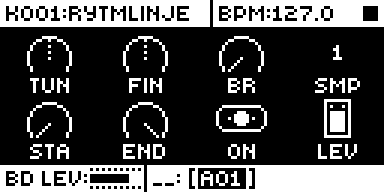
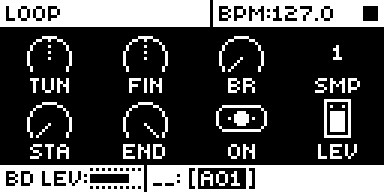
Pipo Loop: PP13 captures of every feature; evidence from the author's unit
New rytm-emu captures from PP13: LOP OFF/ON/PIPO, a PIPO lock and scene,
zero snap on the sound and on a held trig's lock, and the S/E labels
(sharing a crossing, reversed, playing). Evidence is author-hardware (test
builds PC03, PD01-PD05 as reported); README and limitations updated and the
not-yet-tested-on-a-unit list in TESTING.md.

Changed region(s): [[0.0, 0.0312, 0.5, 0.125]]

diff --git a/sdk/analog-rytm-mkii/modules/_submissions/pipo-loop/README.md b/sdk/analog-rytm-mkii/modules/_submissions/pipo-loop/README.md
@@ -38,6 +38,10 @@ Use a build containing Pipo Loop, select a track whose sound plays a sample, and
 
 ![LOP locked to PIPO in scene 1](media/scene-pipo.png)
 
+![STA and END snapped to zero crossings, labelled S and E](media/snap-markers.png) ![A held trig's STA lock snapped to a crossing](media/snap-lock.png)
+
+![STA and END sharing a crossing](media/markers-shared.png) ![END before STA](media/markers-reversed.png) ![Playing, with the playhead](media/markers-playing.png)
+
 ### Changes to stock flows
 
 - **LOP has a third value.** What changes: turning LOP clockwise past ON now reaches PIPO; locks and scenes can hold PIPO. Why: a musician looks for loop behaviour on LOP, and a third value needs no new page, key gesture or menu row (a FUNC gesture on the SAMPLE page was considered, but FUNC + STA, END and LOP are stock's coarse steps and FUNC + TUN and FIN belong to Loop Sync). What you see: the value text reads PIPO, and LOP's switch has three positions like BD CLASSIC's WAV, so ON now shows the knob in the middle (stock: on the right). It applies only in a build with this mod; leave LOP on OFF or ON for stock behaviour. Checked beside it: OFF and ON play exactly as stock, LOP's p-locks and scene locks, kit save through power-off, MIDI CC 30.
@@ -59,16 +63,16 @@ Use a build containing Pipo Loop, select a track whose sound plays a sample, and
 - A PIPO turn on a crossing can still give a soft knock on a pure tone: the waveform's slope reverses at the turn, which no choice of frame avoids. A forward loop (LOP ON) between two crossings of one direction joins smoothly.
 - The STA and END lines on the SMPL WAVEFORM view are stock's drawing: one column covers many frames (about 225 for a 0.6 s sample), and stock spaces the lines over 123 columns but the waveform over 124, so a line can sit one column left of the crossing it is on, more often towards the right of the screen. The frame stock plays from is the one the snap set.
 - On stock OS, PIPO plays as ON. Sounds and kits keep the value, so loading them again with the mod brings PIPO back.
-- On a unit only as test builds so far (PC03 and the diagnostic PD01, both reported in [TESTING.md](TESTING.md)).
+- Run on a unit by the author as test builds (PC03 and the diagnostics PD01 to PD05, reported in [TESTING.md](TESTING.md)); what is not yet tested on a unit is listed there.
 
 ## Tests and measurements
 
-rytm-emu (c5732f0) on OS 1.74, build PP07, with a generated ramp sample on BD: the value steps OFF/ON/PIPO and reads PIPO; ON plays stock's forward loop and PIPO a click-free triangle from TUN -24 to +24; switching ON to PIPO mid-note; FUNC + STA and END stepping crossing by crossing on a test sine with silence and DC in it; p-locks and scene locks of PIPO; two voices at once; retrig; persistence through power-off; and stock 1.74 loading the saved PIPO state as a normal loop. CPU is a static estimate: about 0.1 % of an audio block with nothing looping and about 0.6 % with all eight voices in PIPO. See [TESTING.md](TESTING.md).
+rytm-emu (c5732f0) on OS 1.74, build PP13, with generated ramp and sine samples on BD: the value steps OFF/ON/PIPO and reads PIPO; ON plays stock's forward loop and PIPO turns exactly at STA and END from TUN -24 to +24; switching ON to PIPO mid-note; FUNC + STA and END stepping crossing by crossing (sound, lock editor, per-trig and live recording), holding at the sample's edges, passing and sharing crossings; p-locks and scene locks of PIPO; two voices at once; retrig; persistence through power-off; stock 1.74 loading the saved PIPO state as a normal loop; the S and E labels. On a unit (author's reports, test builds up to PD05): the switch, PIPO, zero snap on the sound and on held trigs' locks, edges, passing and sharing, clean snapped LOP ON loops, the labels. CPU is a static estimate: about 0.1 % of an audio block with nothing looping and about 0.6 % with all eight voices in PIPO. See [TESTING.md](TESTING.md).
 
 ## Authorship and licences
 
-Original code by npp1993 (Nathaniel Pavel), GPL-3.0-or-later ([LICENSE](LICENSE)). The OS 1.74 addresses were read by the author from his own stock firmware; the build carries addresses, lengths and SHA-256 guards only, no stock bytes. Screenshots: [media/LICENSE.md](media/LICENSE.md).
+Original code by npp1993 (Nathaniel Pavel), GPL-3.0-or-later ([LICENSE](LICENSE)). The OS 1.74 addresses were read by the author from their own stock firmware; the build carries addresses, lengths and SHA-256 guards only, no stock bytes. Screenshots: [media/LICENSE.md](media/LICENSE.md).
 
 ## Screens and audio
 
-Screenshots are rytm-emu captures of build PP06 ([media/capture.json](media/capture.json)). No audio preview yet.
+Screenshots are rytm-emu captures of build PP13 ([media/capture.json](media/capture.json)), the zero-snap and label ones on a generated slow sine. No audio preview yet.

diff --git a/sdk/analog-rytm-mkii/modules/_submissions/pipo-loop/TESTING.md b/sdk/analog-rytm-mkii/modules/_submissions/pipo-loop/TESTING.md
@@ -254,9 +254,9 @@ test samples PIPO_SLOW, PIPO_110 and PIPO_SQR and reported:
 
 npp1993 flashed the build with the S and E labels (PD05/PC11 code) and reported: the labels look
 great; STA and END can sit on top of each other and change places (END before STA), with both labels
-showing; a lock set with FUNC + turn while a trig is held shows its position when that trig is held
-again; "I think that's everything good". Not reported on this build: moderate-speed turns after the
-skip fix, PIPO turn clicks, the unmirrored counter.
+showing; the loop plays; a lock set with FUNC + turn while a trig is held lands on a crossing and shows
+its position when that trig is held again; "I think that's everything good". PD05 is PC11's code plus
+the readout; PC11 and PP13 themselves were not flashed.
 
 ## PD04 report; S and E labels (2026-10-28)
 
@@ -427,9 +427,17 @@ above.
 
 ## Not tested
 
-- On a unit, beyond the PC03, PD01, PD03, PD04 and PD05 reports above: PC11 and PP13 have not been flashed.
-- KIT SAVE and KIT RELOAD from the KIT menu, the sound browser, sound SysEx dumps and Overbridge.
-- Eight voices in PIPO at once, LFO or velocity modulation of STA and END while in PIPO, and Loop
-  Sync and Pipo Loop on the same track.
-- PX07 booted.
-- Several trigs held at once while snapping locks; the lock-editor path (0x4003a19c).
+On a unit (everything below was run in rytm-emu only, or not at all):
+
+- PC11 and PP13 themselves (PD05, the same code plus the readout, was flashed).
+- Moderate-speed FUNC turns after the skip fix (one crossing for up to two values); PIPO turn clicks
+  after the four-way cache push; the unmirrored counter staying 0 over a long PIPO note.
+- Several voices in PIPO at once (eight), retrig, and LFO or velocity modulation of STA and END
+  while in PIPO.
+- LOP's PIPO as a p-lock and in scenes, LOP set over MIDI CC 30 (including values above 2).
+- Kit save and reload (KIT menu), the sound browser, sound SysEx dumps, Overbridge, power cycle with
+  PIPO saved, and a saved PIPO kit on stock 1.74 (plays as ON there in rytm-emu).
+- Silent Pad+Trig's rows and pads used together with Pipo Loop in one session (PC11 builds both;
+  PD05 carried both but only Pipo Loop was exercised); Loop Sync and Pipo Loop on the same track.
+- Several trigs held at once while snapping locks.
+- Samples longer than 0.64 s (zero snap lands on the nearest step there).
